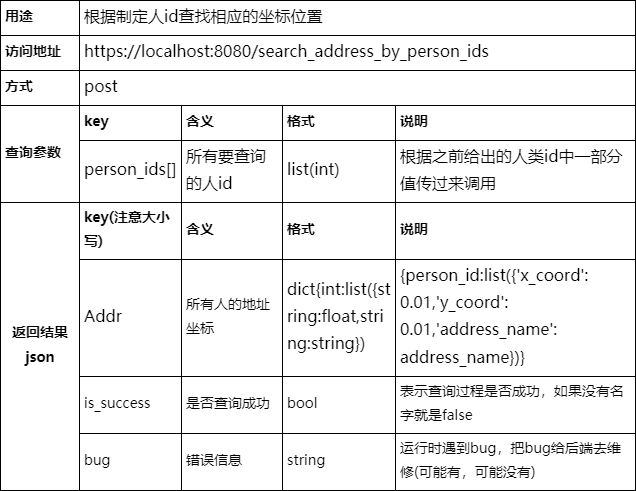
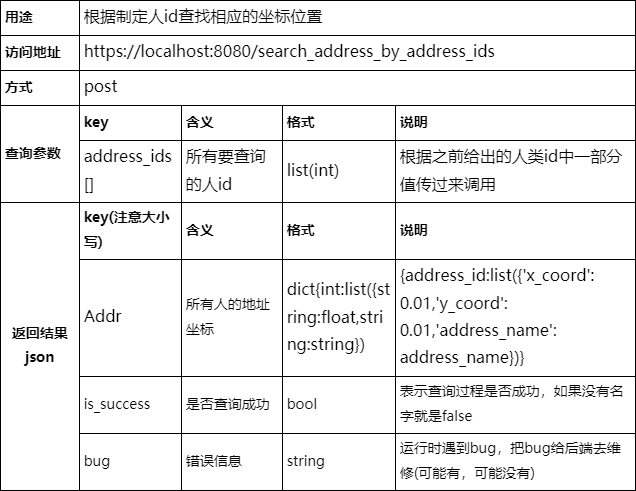
change methods search address by address ids

diff --git a/templates/test_post.html b/templates/test_post.html
@@ -34,14 +34,14 @@
     </form>
 </div>
 <div>
-    <h2>通过人名id搜索地址</h2>
-    <form action="/test_search_address_by_person_ids/" method="post">
+    <h2>通过地址id搜索地址</h2>
+    <form action="/test_search_address_by_address_ids/" method="post">
         <label>person_ids:</label>
-        <label><input name="person_ids[]" type="checkbox" value="1447">朱明之</label>
-        <label><input name="person_ids[]" type="checkbox" value="2287">吕嘉问</label>
-        <label><input name="person_ids[]" type="checkbox" value="2773">王安礼</label>
-        <label><input name="person_ids[]" type="checkbox" value="2775">王安石</label>
-        <label><input name="person_ids[]" type="checkbox" value="2658">蔡京</label>
+        <label><input name="address_ids[]" type="checkbox" value="430158">浦江</label>
+        <label><input name="address_ids[]" type="checkbox" value="446203">江南</label>
+        <label><input name="address_ids[]" type="checkbox" value="430967">金华</label>
+        <label><input name="address_ids[]" type="checkbox" value="432244">余姚</label>
+        <label><input name="address_ids[]" type="checkbox" value="432121">华亭</label>
         <input type="submit" value="搜索">
     </form>
 </div>

diff --git a/group_anaysis/view.py b/group_anaysis/view.py
@@ -5,7 +5,7 @@ from django.shortcuts import render
 
 from services import common
 from services.service import get_range_person_by_name, get_topics_by_person_ids, get_person_by_ranges, get_init_ranges, \
-    get_address_by_person_ids, get_community_by_num_node_links, add_topic_weights, get_person_by_draws
+    get_address_by_address_ids, get_community_by_num_node_links, add_topic_weights, get_person_by_draws
 
 
 def init_ranges(request):
@@ -66,18 +66,18 @@ def search_person_by_ranges(request):
     return HttpResponse(json_result, content_type="application/json")
 
 
-def search_address_by_person_ids(request):
+def search_address_by_address_ids(request):
     NodeLabels = common.NodeLabels
     request.encoding = 'utf-8'
     result = {'is_success': False}
-    if 'person_ids[]' in request.POST and request.POST['person_ids[]']:
-        person_ids = request.POST.getlist('person_ids[]')
+    if 'address_ids[]' in request.POST and request.POST['address_ids[]']:
+        address_ids = request.POST.getlist('address_ids[]')
         try:
-            address = get_address_by_person_ids(person_ids)
+            address = get_address_by_address_ids(address_ids)
             result[NodeLabels['address']] = address
             result['is_success'] = True
         except Exception as e:
-            result['bug'] = '发给后端调试问题。输入为 person_ids:{}'.format(person_ids)
+            result['bug'] = '发给后端调试问题。输入为 address_ids:{}'.format(address_ids)
     json_result = json.dumps(result)
     return HttpResponse(json_result, content_type="application/json")
 
@@ -229,8 +229,8 @@ def test_search_person_by_ranges(request):
     return render(request, 'test_post.html', {'response': content})
 
 
-def test_search_address_by_person_ids(request):
-    response = search_address_by_person_ids(request)
+def test_search_address_by_address_ids(request):
+    response = search_address_by_address_ids(request)
     content = str(response.content, 'utf-8')
     return render(request, 'test_post.html', {'response': content})
 

diff --git a/_test_service.py b/_test_service.py
@@ -6,7 +6,7 @@ import numpy as np
 
 from services import common
 from services.service import get_range_person_by_name, get_topics_by_person_ids, get_init_ranges, get_person_by_ranges, \
-    get_address_by_person_ids, get_all_similar_person, add_topic_weights
+    get_address_by_address_ids, get_all_similar_person, add_topic_weights
 from services.tools.person_tool import get_person_all_dict
 from tools.sort_utils import sort_dict2list
 
@@ -63,10 +63,7 @@ if __name__ == '__main__':
     CBDB_DAO.start_connect()
     person_dict = get_person_all_dict([_id for _id, values in person.items()])
     person_dict = {key: values for key, values in person_dict.items() if 633615 in values.keys()}
-    person_ids = [_id for _id, values in person.items()]
-    # start = timeit.default_timer()
-    # address = get_address_by_person_ids(person.keys())
-    # print('查询地址耗时:{}'.format(timeit.default_timer() - start))
+    person_ids = [_id for _id, values in person.items()][:30]
     # GRAPH_DAO.start_connect()
     # start = timeit.default_timer()
     # person_id2relation = {_id: len(GRAPH_DAO.get_in_edges(_id) + GRAPH_DAO.get_out_edges(_id)) for _id, _ in
@@ -82,6 +79,12 @@ if __name__ == '__main__':
         person_ids, populate_ratio=0.6, max_topic=10)
     print(len(all_topic_ids))
     print('查询所有topic的相关性:{}'.format(timeit.default_timer() - start))
+
+    address_ids = [_id for _id, _item in node_dict.items() if _item['label'] == NodeLabels['address']]
+    start = timeit.default_timer()
+    address = get_address_by_address_ids(address_ids)
+    print('查询地址耗时:{}'.format(timeit.default_timer() - start))
+
     topic_weights = {'1 2 3': 2}
     person_id2position2d2, person_dict = add_topic_weights(topic_weights, topic_id2sentence_ids2vector,
                                                            person_id2sentence_ids)

diff --git a/services/dao/cbdb_dao.py b/services/dao/cbdb_dao.py
@@ -1,4 +1,3 @@
-import gc
 from collections import defaultdict
 
 from services.dao.base_dao import SqliteDAO
@@ -10,6 +9,7 @@ class CBDBDAO(SqliteDAO):
         self.all_dynasties_cache = {}
         self.all_status_cache = {}
         self.person_code2address_cache = defaultdict(list)
+        self.address_code2address_cache = defaultdict(list)
         self.person_name2ids = defaultdict(set)
 
     def get_all_dynasties(self):
@@ -76,6 +76,19 @@ class CBDBDAO(SqliteDAO):
                     {'x_coord': cols['x_coord'], 'y_coord': cols['y_coord'], 'address_name': cols['address_name']})
 
         return {_code: self.person_code2address_cache[_code] for _code in person_codes}
+
+    def get_address_by_address_codes(self, address_codes):
+        address_codes = [int(_code) for _code in address_codes]
+        new_address_codes = [_code for _code in address_codes if _code not in self.address_code2address_cache]
+        if self.use_cache and len(new_address_codes) > 0:
+            sql_str = '''SELECT DISTINCT c_addr_id,x_coord,y_coord,c_name_chn FROM addresses WHERE c_addr_id in {}'''.format(
+                tuple(new_address_codes if len(new_address_codes) > 1 else "({})".format(new_address_codes[0])))
+            rows = self._select(sql_str, ['address_id', 'x_coord', 'y_coord', 'address_name'], ())
+            for cols in rows:
+                self.address_code2address_cache[cols['address_id']].append(
+                    {'x_coord': cols['x_coord'], 'y_coord': cols['y_coord'], 'address_name': cols['address_name']})
+
+        return {_code: self.address_code2address_cache[_code] for _code in address_codes}
 
     def get_person_by_person_names(self, person_names):
         new_person_names = [_name for _name in person_names if _name not in self.person_name2ids]

diff --git a/services/service.py b/services/service.py
@@ -157,7 +157,7 @@ def get_person_by_ranges(dynasty_ids, min_year, max_year, is_female, statu_ids):
     return person
 
 
-def get_address_by_person_ids(person_ids):
+def get_address_by_address_ids(address_ids):
     """根据人的id查询所有的地址及坐标
 
     Notes
@@ -166,7 +166,7 @@ def get_address_by_person_ids(person_ids):
 
     Parameters
     ----------
-    person_ids: list(int)
+    address_ids: list(int)
 
     Returns
     -------
@@ -178,14 +178,14 @@ def get_address_by_person_ids(person_ids):
     NodeLabels = common.NodeLabels
     CBDB_DAO.start_connect()
     GRAPH_DAO.start_connect()
-
-    if person_ids is not None:
-        person_ids = list(person_ids)
-        for i, _id in enumerate(person_ids):
-            person_ids[i] = GRAPH_DAO.get_node_code_by_id(_id)
-
-    address = CBDB_DAO.get_address_by_person_codes(person_ids)
-    address = {GRAPH_DAO.get_node_ids_by_label_codes(NodeLabels['person'], [_code])[0]: _item for _code, _item in
+    address_codes = list()
+    if address_ids is None:
+        return None
+    address_ids = list(address_ids)
+    for _id in address_ids:
+        address_codes.append(GRAPH_DAO.get_node_code_by_id(_id))
+    address = CBDB_DAO.get_address_by_address_codes(address_codes)
+    address = {GRAPH_DAO.get_node_ids_by_label_codes(NodeLabels['address'], [_code])[0]: _item for _code, _item in
                address.items()}
     GRAPH_DAO.close_connect()
     CBDB_DAO.close_connect()

diff --git a/group_anaysis/urls.py b/group_anaysis/urls.py
@@ -7,7 +7,7 @@ urlpatterns = [
     path('test_init_ranges/', view.test_init_ranges),
     path('test_search_ranges_by_name/', view.test_search_ranges_by_name),
     path('test_search_person_by_ranges/', view.test_search_person_by_ranges),
-    path('test_search_address_by_person_ids/', view.test_search_address_by_person_ids),
+    path('test_search_address_by_address_ids/', view.test_search_address_by_address_ids),
     path('test_search_topics_by_person_ids/', view.test_search_topics_by_person_ids),
     path('test_adjust_topic_weights/', view.test_adjust_topic_weights),
     path('test_search_person_ids_by_draws/', view.test_search_person_ids_by_draws),
@@ -15,7 +15,7 @@ urlpatterns = [
     path('init_ranges/', view.init_ranges),
     path('search_ranges_by_name/', view.search_ranges_by_name),
     path('search_person_by_ranges/', view.search_person_by_ranges),
-    path('search_address_by_person_ids/', view.search_address_by_person_ids),
+    path('search_address_by_address_ids/', view.search_address_by_address_ids),
     path('search_topics_by_person_ids/', view.search_topics_by_person_ids),
     path('search_community_by_links/', view.search_community_by_links),
     path('adjust_topic_weights/', view.adjust_topic_weights),
